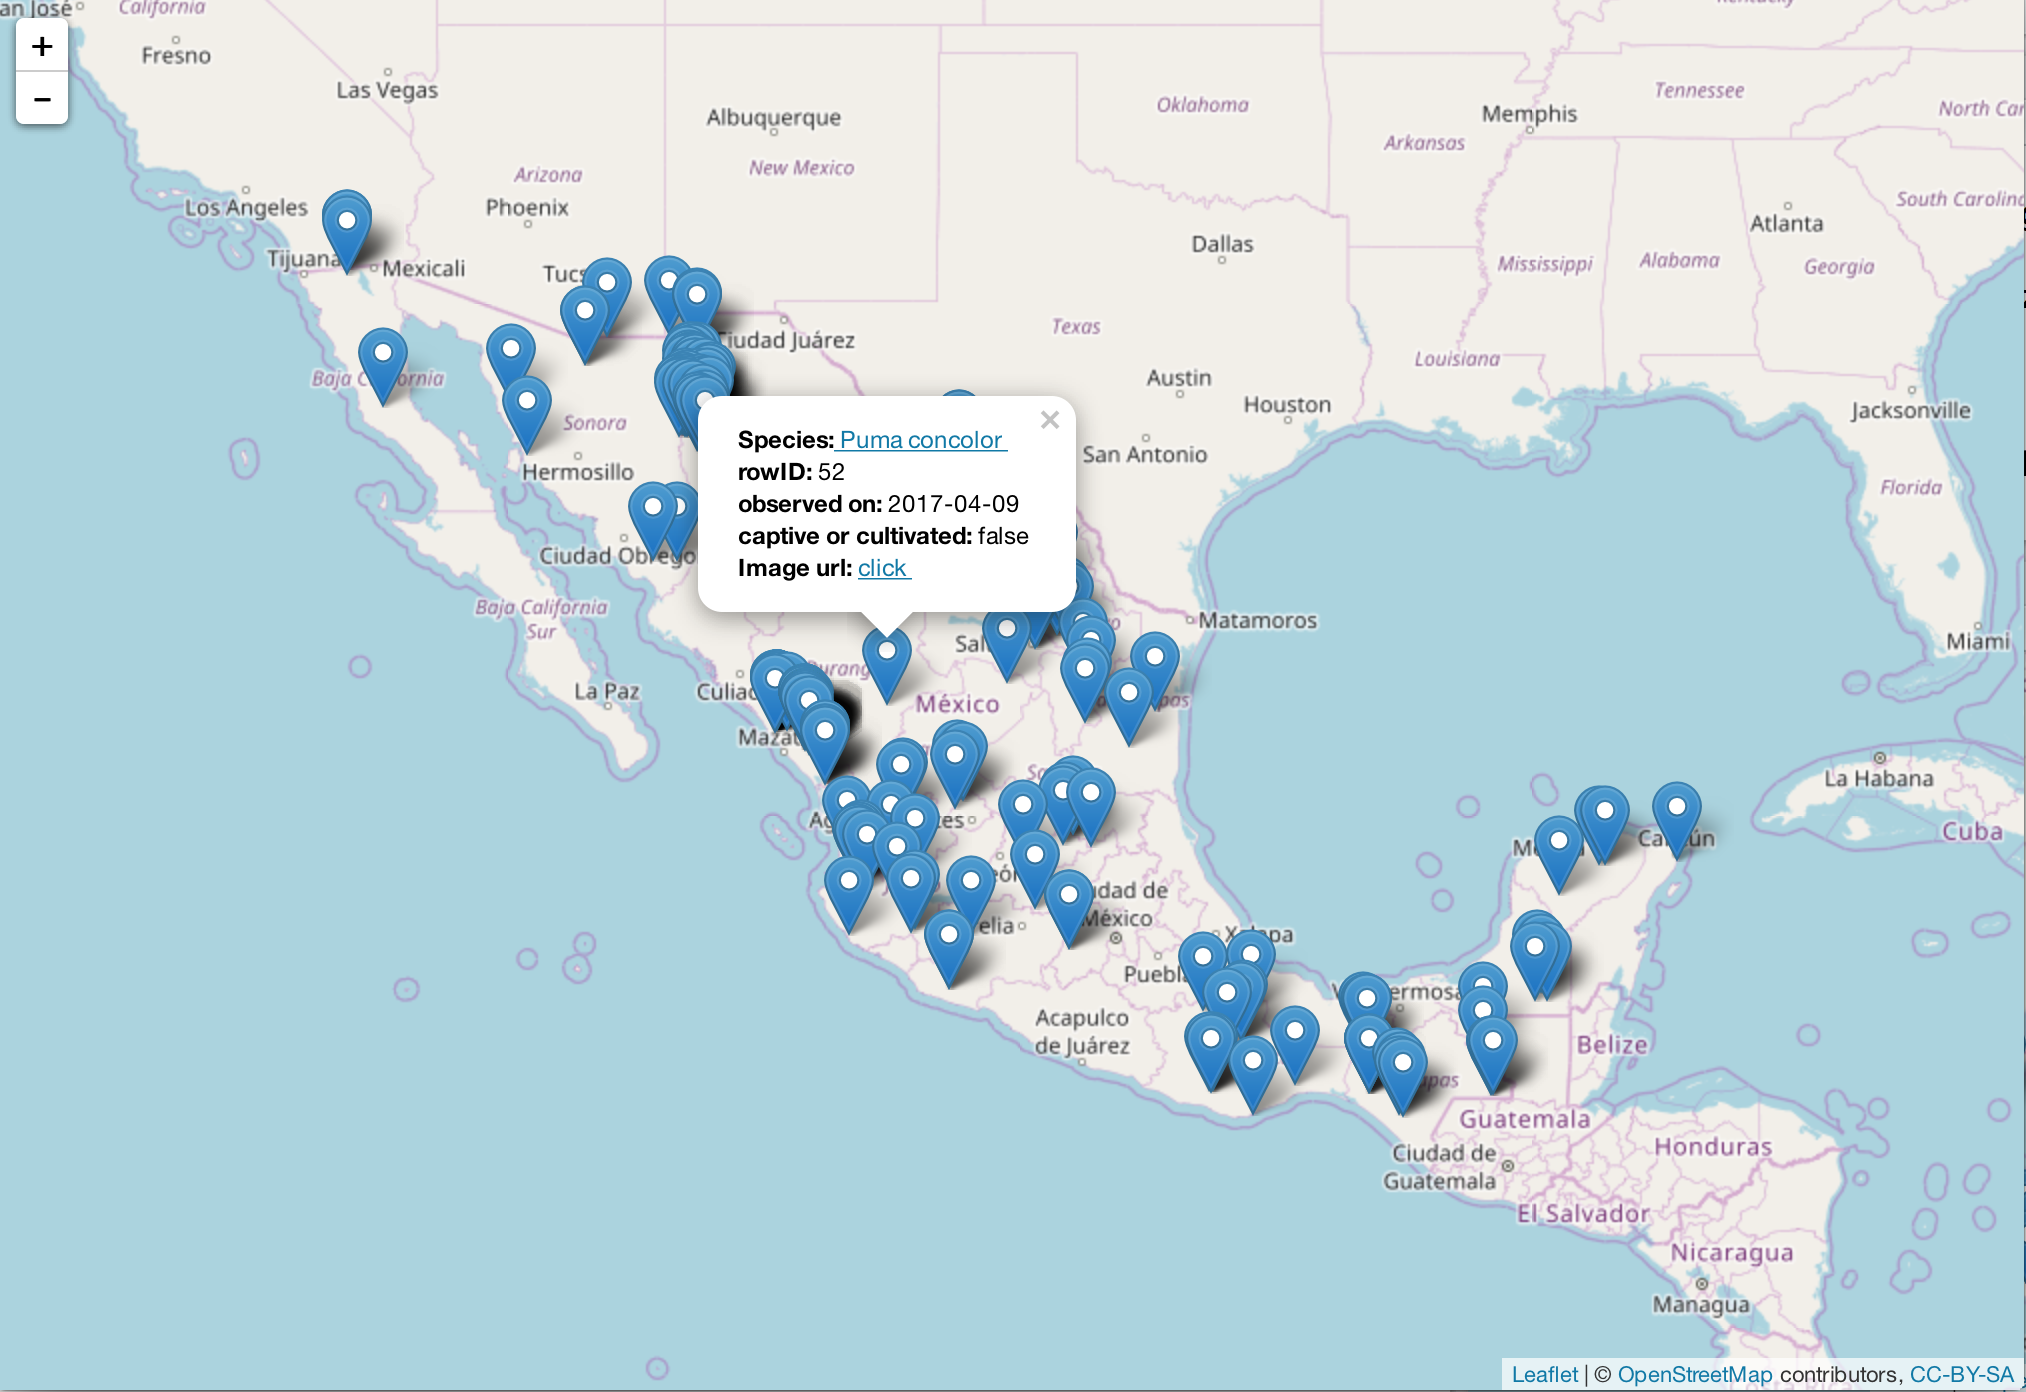
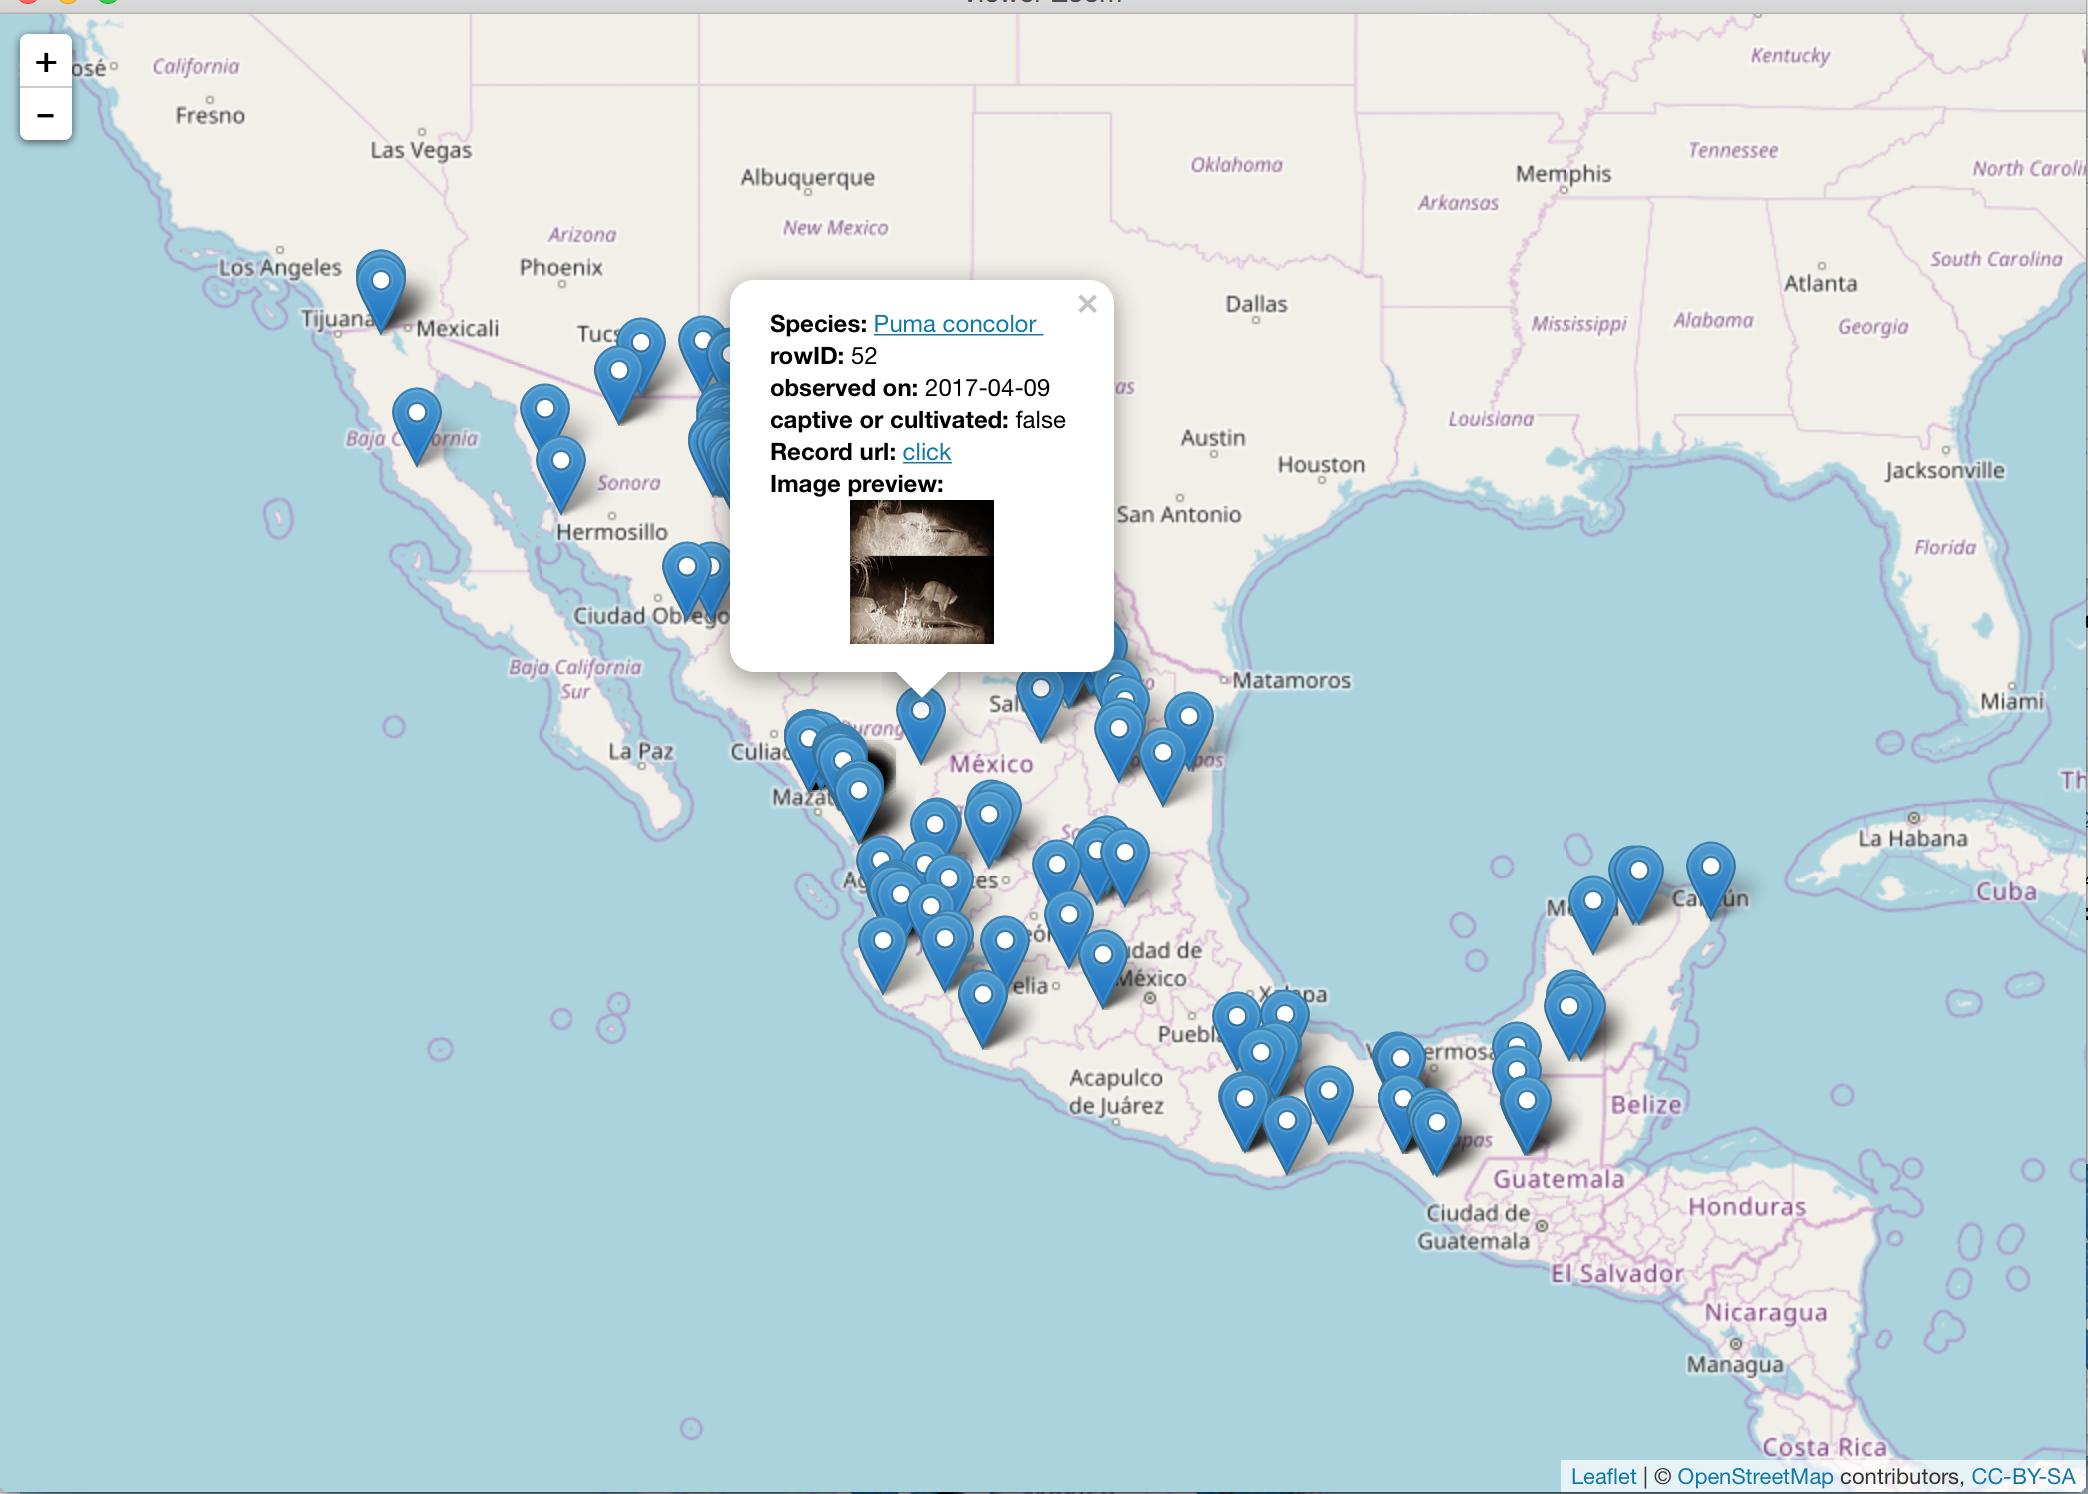
Edited usage example

diff --git a/README.md b/README.md
@@ -20,13 +20,13 @@ library(naturalr)
 Look for cougar records in Mexico that are not from captivity sites.
 ```r
 puma_occs <- get_inat_obs(query = "Puma concolor",
-                          geo = T,maxresults = 10000,
+                          geo = T,maxresults = 1000,
                           captive_cultivated = F)
 ```
 Plot a leaflet map that displays basic information like species description and naturalita photos.
 
 ``` r
-inat_map(puma_occs)
+inat_map(puma_occs,imagePreview=T)
 ```
 
 ![](img/puma_concolor.png)
